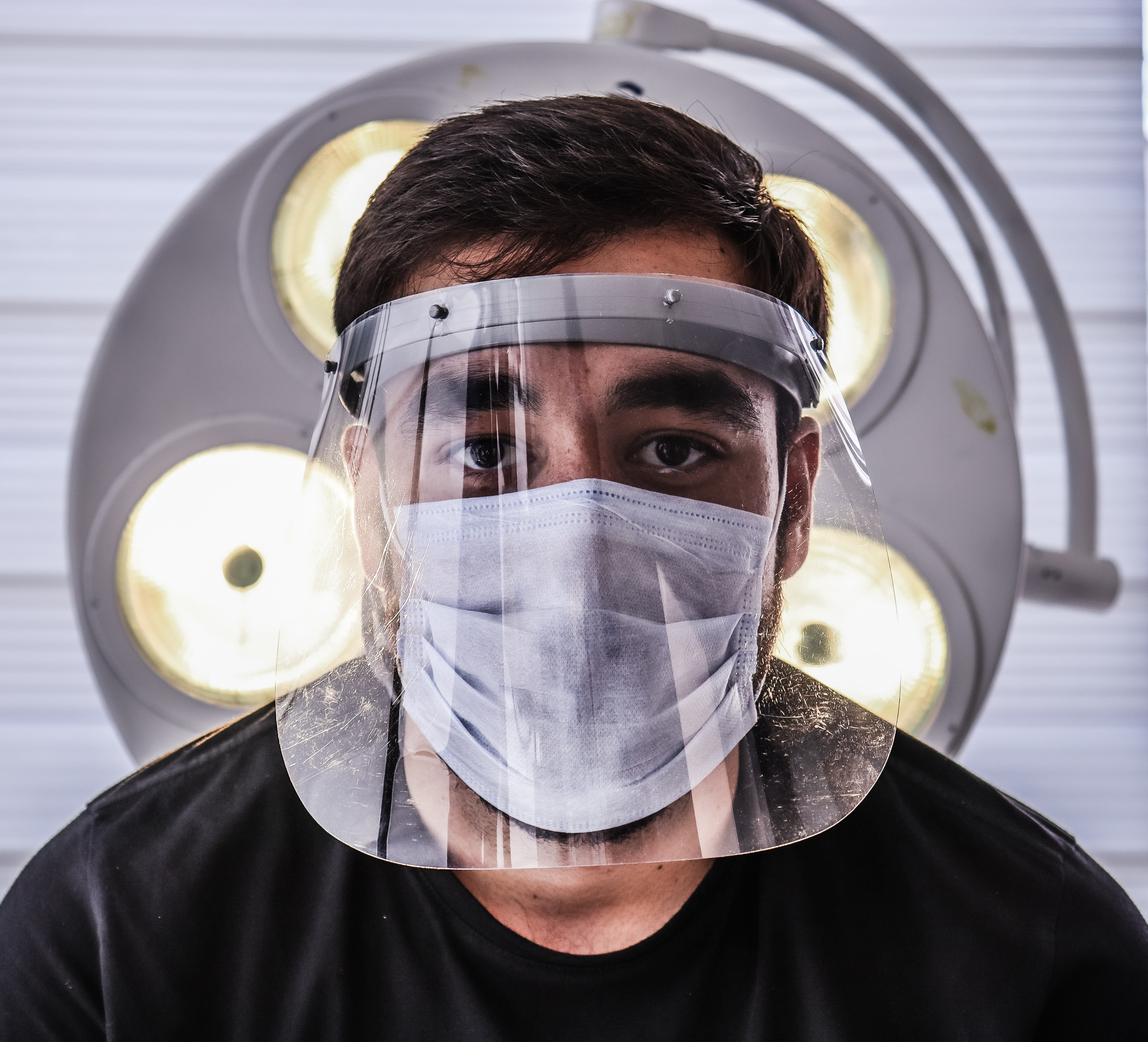
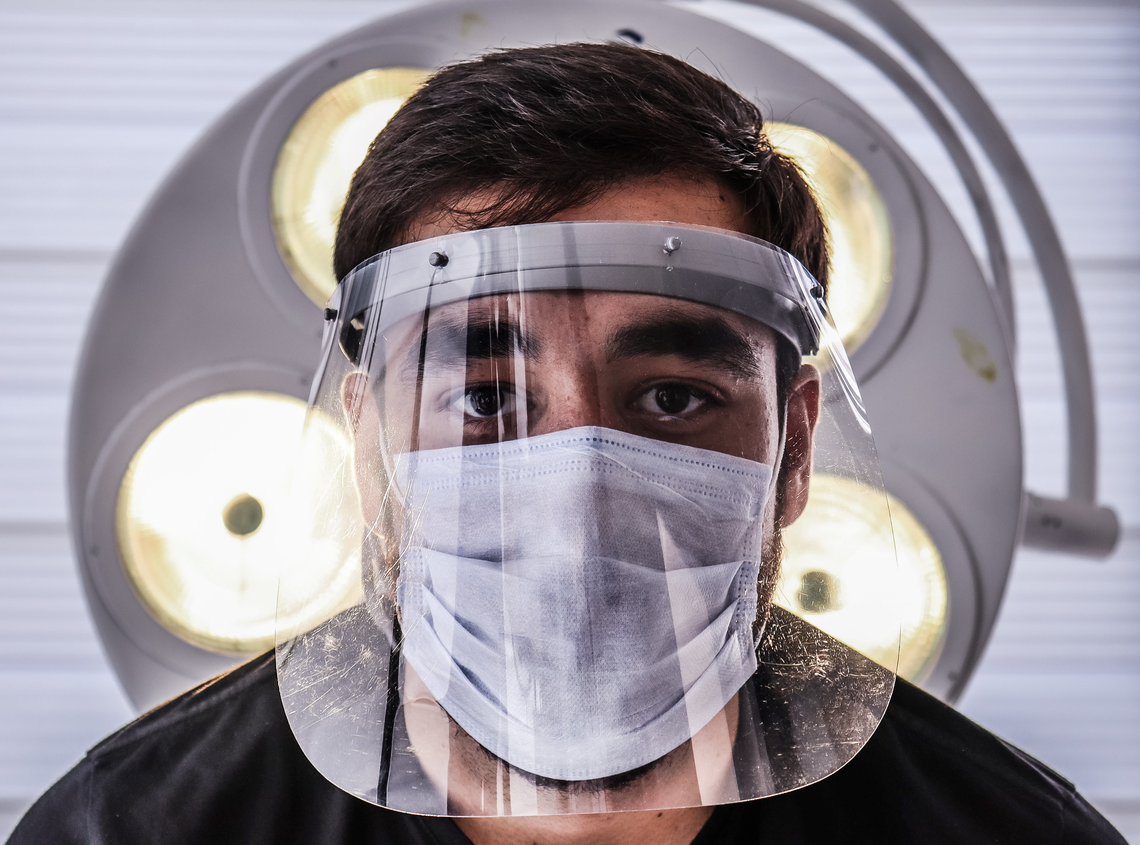
Hero in positon for desktop. Positioning/styling deadpeople card

diff --git a/dead-neighbors/src/App.js b/dead-neighbors/src/App.js
@@ -114,6 +114,7 @@ class App extends Component {
      
   return (
     <div className = 'pageContent'>
+     
       <header>
         <div className = 'deadTitle'> 
           <div className = 'headerTitle'>
@@ -132,15 +133,18 @@ class App extends Component {
           </nav>        
       </header>
       <main className = 'maintContent'>
-      <h2 className ='sinceVisit'>{this.state.deadPerson} Dead Since Your Visit</h2>
+        <div className = 'heroContainer'>
+          <div className = 'peopleCard'>
           {(this.state.CovidDeathsToday === 0)
           ?
           <div></div>
           :
           <DeadPeople deadPersonCount ={deadPerson} key={deadPerson}/*key change forces render(updated props are sent)*//>
           }
-         
+          </div>
           <img className = 'hero' src={Hero} alt = 'Hero Doctor, PHOTOGRAPH BY EMIN BAYCAN on Unsplash'/>
+        </div>
+        <div className = 'stats'>
           <CovidStateData
               data = {(searchField === "")?[]:filteredStates }/>
             <div className="App">
@@ -148,8 +152,10 @@ class App extends Component {
           <CovidUsData 
               data = {CovUSdata}/>
           </div> 
+          </div>
       </main>
       <footer>
+      <h2 className ='sinceVisit'>{this.state.deadPerson} Dead Since Your Visit</h2>  
         <h3>Footer stuff goes here...</h3>
         <span>Hero Photo by <a href="https://unsplash.com/@aimlesscode?utm_source=unsplash&amp;utm_medium=referral&amp;utm_content=creditCopyText">Emin BAYCAN</a> on <a href="https://unsplash.com/s/photos/face-mask?utm_source=unsplash&amp;utm_medium=referral&amp;utm_content=creditCopyText">Unsplash</a></span>
         {

diff --git a/dead-neighbors/src/index.css b/dead-neighbors/src/index.css
@@ -21,6 +21,8 @@ html{
   --green: #A8DADC;
   --cream:#f4faf2;
   --red:#E63946;
+  --shadow:0 2px 30px #292626;
+  --grey:#c3c3c3;
    box-sizing: border-box;
   font-family: Arial, Helvetica, san-serif;
   --breakpoint-xs: 0;
@@ -43,8 +45,8 @@ header{
   background-color: #fff;
   justify-content:center;
   align-items: baseline;
-  border-width: 100px;
-  border-color: black;
+  border-bottom:1px solid var(--grey);
+
 }
   .deadTitle{
     padding-left:7rem;
@@ -54,7 +56,7 @@ header{
     align-self:flex-start;
     margin-right:4em;
   }
-  .headerTitle h1{
+   .headerTitle h1{
     margin-left:-2em;
     margin-bottom:0px;
   }
@@ -83,14 +85,45 @@ header{
 main{
   padding-top:150px;
   display:grid;
-  grid-template-columns:repeat(auto-fit(250px,1fr));
+  gap:20px;
+  grid-template-columns:repeat(auto-fit,minmax(350px,1fr));
   grid-template-areas:
   "hero hero hero"
-  "dead dead dead";
+  "stats stats stats";
 }
-  main img{
-    width:100%;
+  .heroContainer{
+    grid-area:hero;
+    padding-left: 20rem;
+    margin-top:-6rem;
+    width:fit-content;
+    justify-self: center;
+
   }
+  main img{
+    margin-left: minmax(auto,20em);
+    box-shadow: var(--shadow);
+    max-width: 900px;
+    width:100%;
+    z-index: 1;
+  }
+  main .peopleCard{
+    top:50%;
+    left:-20%;
+    position: relative;
+    z-index: 2;
+    max-width:600px;
+    height: auto;
+    background-color: white;
+  }
+  main .people{
+    display:flex;
+    flex-wrap: wrap;
+  }
+  .stats{
+    grid-area:stats;
+    width:max-content;
+  }
+
 footer{
   grid-area: footer;
 }

diff --git a/dead-neighbors/src/DeadPerson.js b/dead-neighbors/src/DeadPerson.js
@@ -2,7 +2,7 @@ import React from 'react';
 
 const DeadPerson=({fillStroke})=>{
     return(
-    <div className = 'person' style={{width:'40px', height:'45px'}}>
+    <div className = 'person' style={{width:'25px', height:'30px'}}>
         <svg viewBox = '0 10 100 100'>
             <rect x='35' y='70' rx='10' ry='10' width='30' height='50' 
                 style={{fill:fillStroke[0],stroke:fillStroke[1],strokewidth:'5',fillrule:'evenodd'}} />

diff --git a/dead-neighbors/src/DeadPeople.js b/dead-neighbors/src/DeadPeople.js
@@ -30,7 +30,7 @@ class DeadPeople extends React.Component{
     render(){
         console.log(this.props)
     return(
-        <div className = 'people' style ={{display:'flex',flexDirection:'row', flexWrap:'wrap'}}>
+        <div className = 'people'>
             {this.state.deadPersons.map((people)=>{
                 return(people);
             })}
